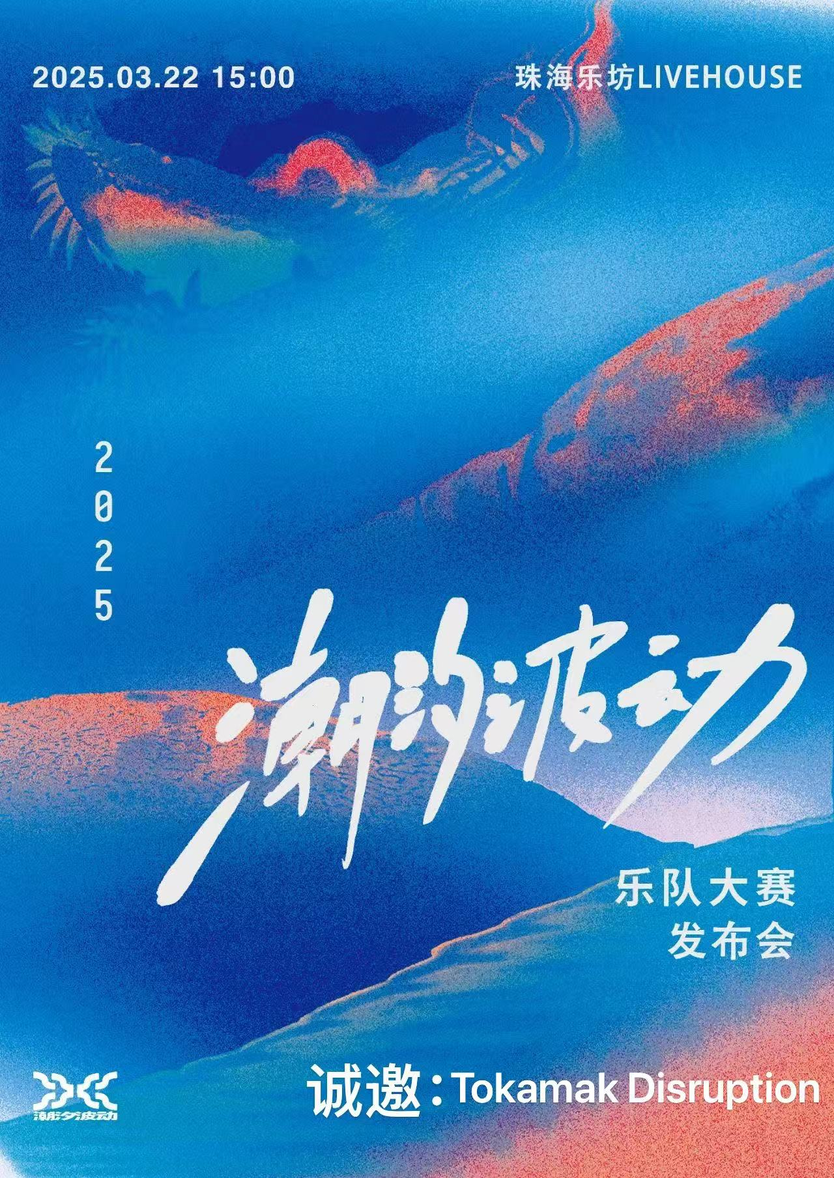
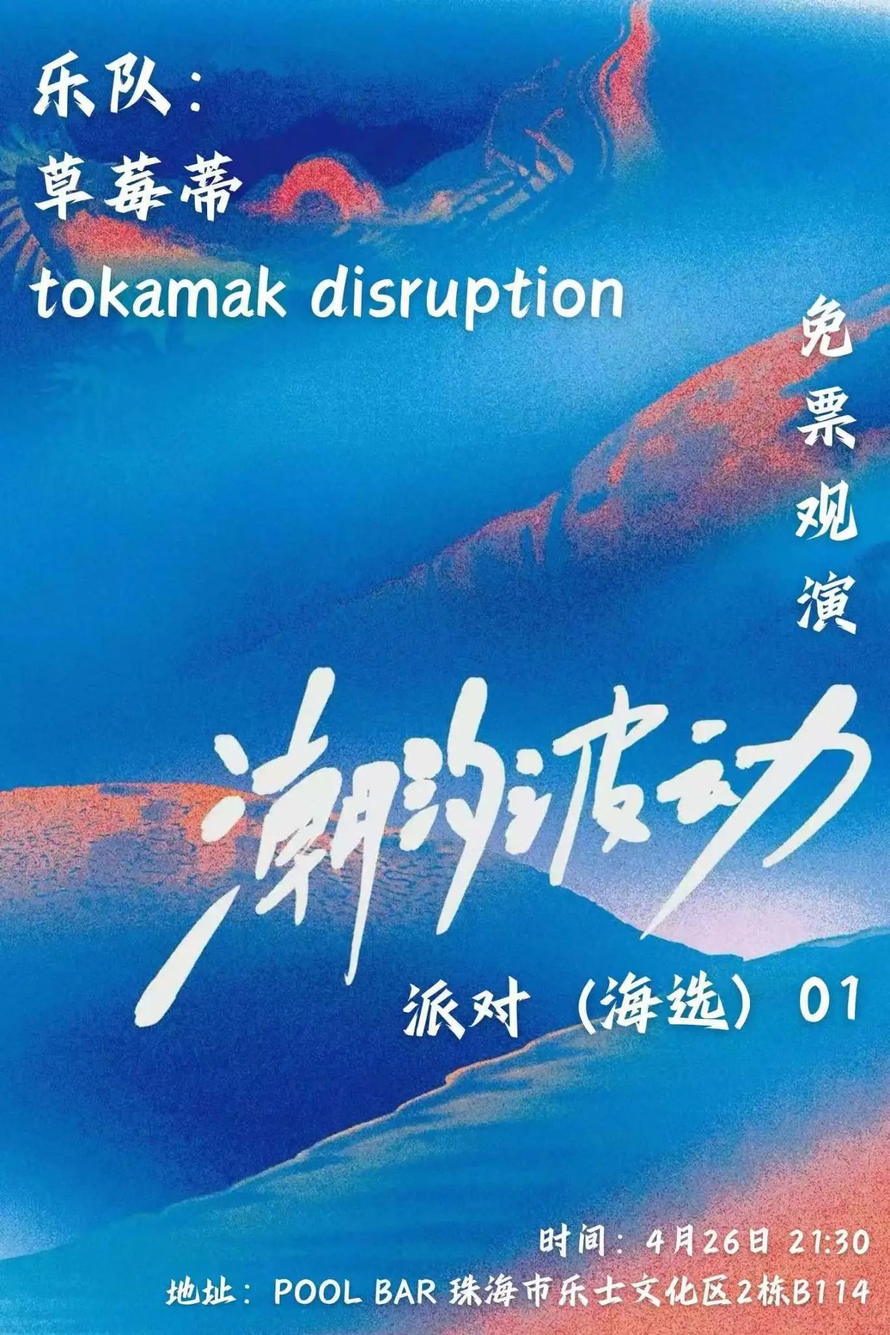
update

diff --git a/content/_index.md b/content/_index.md
@@ -25,7 +25,7 @@ sections:
         <span style="font-weight: bold;">2025.02</span>: We have released the first stage lighting dataset <a href="https://zenodo.org/records/14854217?token=eyJhbGciOiJIUzUxMiJ9.eyJpZCI6IjM5MDcwY2E5LTY0MzUtNGZhZC04NzA4LTczMjNhNTZiOGZmYSIsImRhdGEiOnt9LCJyYW5kb20iOiI1YWRkZmNiMmYyOGNiYzI4ZWUxY2QwNTAyY2YxNTY4ZiJ9.0Jr6GYfyyn02F96eVpkjOtcE-MM1wt-_ctOshdNGMUyUKI15-9Rfp9VF30_hYOTqv_9lLj-7Wj0qGyR3p9cA5w">Rock, Punk, Metal, Core - Livehouse Lighting (RPMC-L2)</a>. The corresponding paper will be avilable soon. <br>
         <span style="font-weight: bold;">2025.02</span>: I am awarded the Elite Scholarship from Likelihood Lab. <br>
         <span style="font-weight: bold;">2025.01</span>: Our papers "<span style="color: blue;">KNN-MMD: Cross Domain Wireless Sensing via Local Distribution Alignment</span>" and a conference version "<span style="color: blue;">Does MMD Really Align? A Cross Domain Wireless Sensing Method via Local Distribution</span>" and "<span style="color: blue;">LoFi: Vision-Aided Label Generator for Wi-Fi Localization and Tracking</span>" have been submitted for possible publication.<br> 
-        <span style="font-weight: bold;">2025.01</span>: Our paper "<span style="color: blue;">Discriminatory Order Assignment and Payment-Setting of On-Demand Food-Delivery Platforms: A Multi-Action and Multi-Agent Reinforcement Learning Framework</span>" and a conference version "<span style="color: blue;">Multi-Action and Multi-Agent Reinforcement Learning for Discriminatory Order Assignment and Payment Setting on Food-Delivery Platform</span>" have been submitted for possible publication.<br> 
+        <span style="font-weight: bold;">2025.01</span>: Our paper "<span style="color: blue;">Discriminatory Order Assignment and Payment-Setting of On-Demand Food-Delivery Platforms: A Multi-Action and Multi-Agent Reinforcement Learning Framework</span>" and a conference version "<span style="color: blue;">Multi-Agent Reinforcement Learning for Order Assignment and Payment Setting on Food-Delivery Platforms: The Implicit Algorithmic Biases</span>" have been submitted for possible publication.<br> 
         <span style="font-weight: bold;">2024.08</span>: Our papers "<span style="color: blue;">CrossFi: A Cross Domain Wi-Fi Sensing Framework Based on Siamese Network</span>" and "<span style="color: blue;">First Token Probability Guided RAG for Telecom Question Answering</span>" have been submitted for possible publication.<br>
         <span style="font-weight: bold;">2024.08</span>: I started my Ph.D. study in HKUST supervised by Prof. Sen Li. (HKUST RedBird Ph.D. Award)<br>
         <span style="font-weight: bold;">2024.08</span>: Our paper "<span style="color: blue;">An Overview of Domain-specific Foundation Model: Key Technologies, Applications and Challenges</span>" has been submitted for possible publication.<br>

diff --git a/content/live/潮汐波动乐队大赛/index.md b/content/live/潮汐波动乐队大赛/index.md
@@ -2,11 +2,11 @@
 title: 潮汐波动乐队大赛
 
 event: livehouse
-event_url: 
+event_url: https://mp.weixin.qq.com/s/tBGASP8o4IwL7dQgj2o9zA
 
-location: 乐坊Livehouse
+location: POOL BAR
 address:
-  street: 珠海市香洲区前山岱山路70号珠海乐士文化区
+  street: 珠海市香洲区前山乐士文化区2栋B114
   city: 珠海市
   region: 广东省
   postcode: ''
@@ -17,8 +17,8 @@ abstract: ''
 
 # Talk start and end times.
 #   End time can optionally be hidden by prefixing the line with `#`.
-date: '2025-03-22T14:00:00Z'
-date_end: '2025-03-22T16:00:00Z'
+date: '2025-04-26T21:30:00Z'
+date_end: '2025-04-26T23:00:00Z'
 all_day: false
 
 # Schedule page publish date (NOT talk date).
@@ -34,7 +34,7 @@ image:
   caption: ''
   focal_point: Right
 
-url_slides: ''
+url_slides: 'https://mp.weixin.qq.com/s/tBGASP8o4IwL7dQgj2o9zA'
 
 # Markdown Slides (optional).
 #   Associate this talk with Markdown slides.
